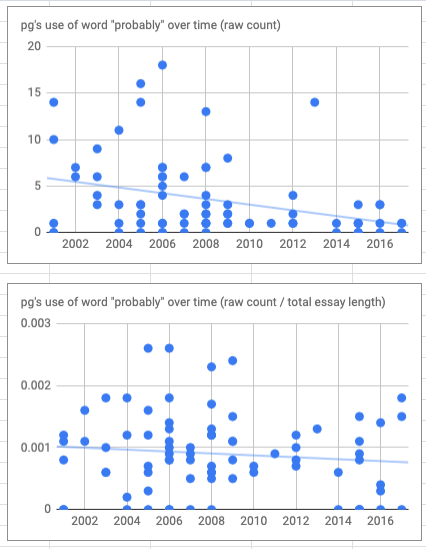
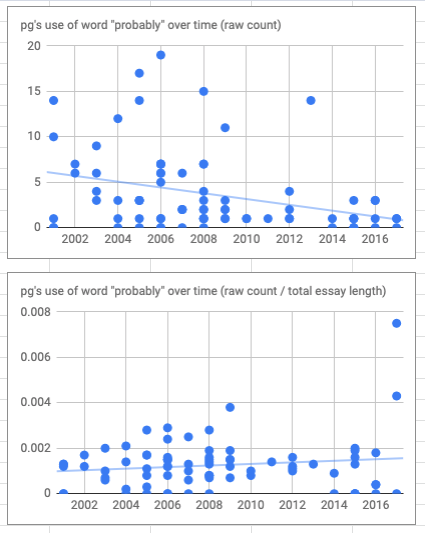
wait, no

diff --git a/parse_essays.py b/parse_essays.py
@@ -3,23 +3,41 @@ import glob, re
 class Essay:
   pass
 
+def strip_markup(text): # see stripper_test.py
+  human = []
+  inhuman = []
+  for line in text.splitlines():
+    if (
+      'DOCTYPE HTML' in line or
+      "text/javascript" in line or
+      "</script>" in line or
+      "Begin Yahoo Store Generated Code" in line or
+      'csell' in line or
+      "<area shape=rect" in line
+    ):
+      inhuman.append(line)
+    else:
+      human.append(line)
+  return '\n'.join(human)
+
 essays = []
 for path in glob.glob('cache/*.html'):
   with open(path) as f:
-    text = f.read()
+    raw_text = f.read()
+  stripped_text = strip_markup(raw_text)
   essay = Essay()
   essays.append(essay)
   essay.word_to_count = word_to_count = {}
   essay.word_to_ratio = word_to_ratio = {}
   essay.slug = path.split('cache/')[-1].rsplit('.html')[0]
   print 'slug:', essay.slug
-  essay.year = re.search(r'\b([0-9]{4})\b', text).group()
+  essay.year = re.search(r'\b([0-9]{4})\b', raw_text).group()
   print 'year:', essay.year
-  essay.total_word_count = len(text.split())
+  essay.total_word_count = len(stripped_text.split())
   for word in 'probably', 'often':
     word_to_count.setdefault(word, 0)
     word_to_ratio.setdefault(word, 0)
-    word_to_count[word] += text.lower().count(word)
+    word_to_count[word] += stripped_text.lower().count(word)
     word_to_ratio[word] += round(float(word_to_count[word]) / essay.total_word_count, 4)
 
 out_lines = ['slug,year,count,ratio']

diff --git a/stripper_test.py b/stripper_test.py
@@ -1,0 +1,33 @@
+import glob, random
+
+human = []
+inhuman = []
+for path in glob.glob('cache/*.html'):
+  with open(path) as f:
+    text = f.read()
+  for line in text.splitlines():
+    if (
+      'DOCTYPE HTML' in line or
+      "text/javascript" in line or
+      "</script>" in line or
+      "Begin Yahoo Store Generated Code" in line or
+      'csell' in line or
+      "<area shape=rect" in line
+    ):
+      inhuman.append(line)
+    else:
+      human.append(line)
+
+print 'inhuman'
+print '-----'
+random.shuffle(inhuman)
+for line in inhuman[:5]:
+  print line
+
+print
+
+print 'human'
+print '-----'
+random.shuffle(human)
+for line in human[:5]:
+  print line

diff --git a/readme.md b/readme.md
@@ -1,3 +1,1 @@
 ![graph](/graph.png?raw=true)
-
-"Believe those who seek the truth; doubt those who find it."
